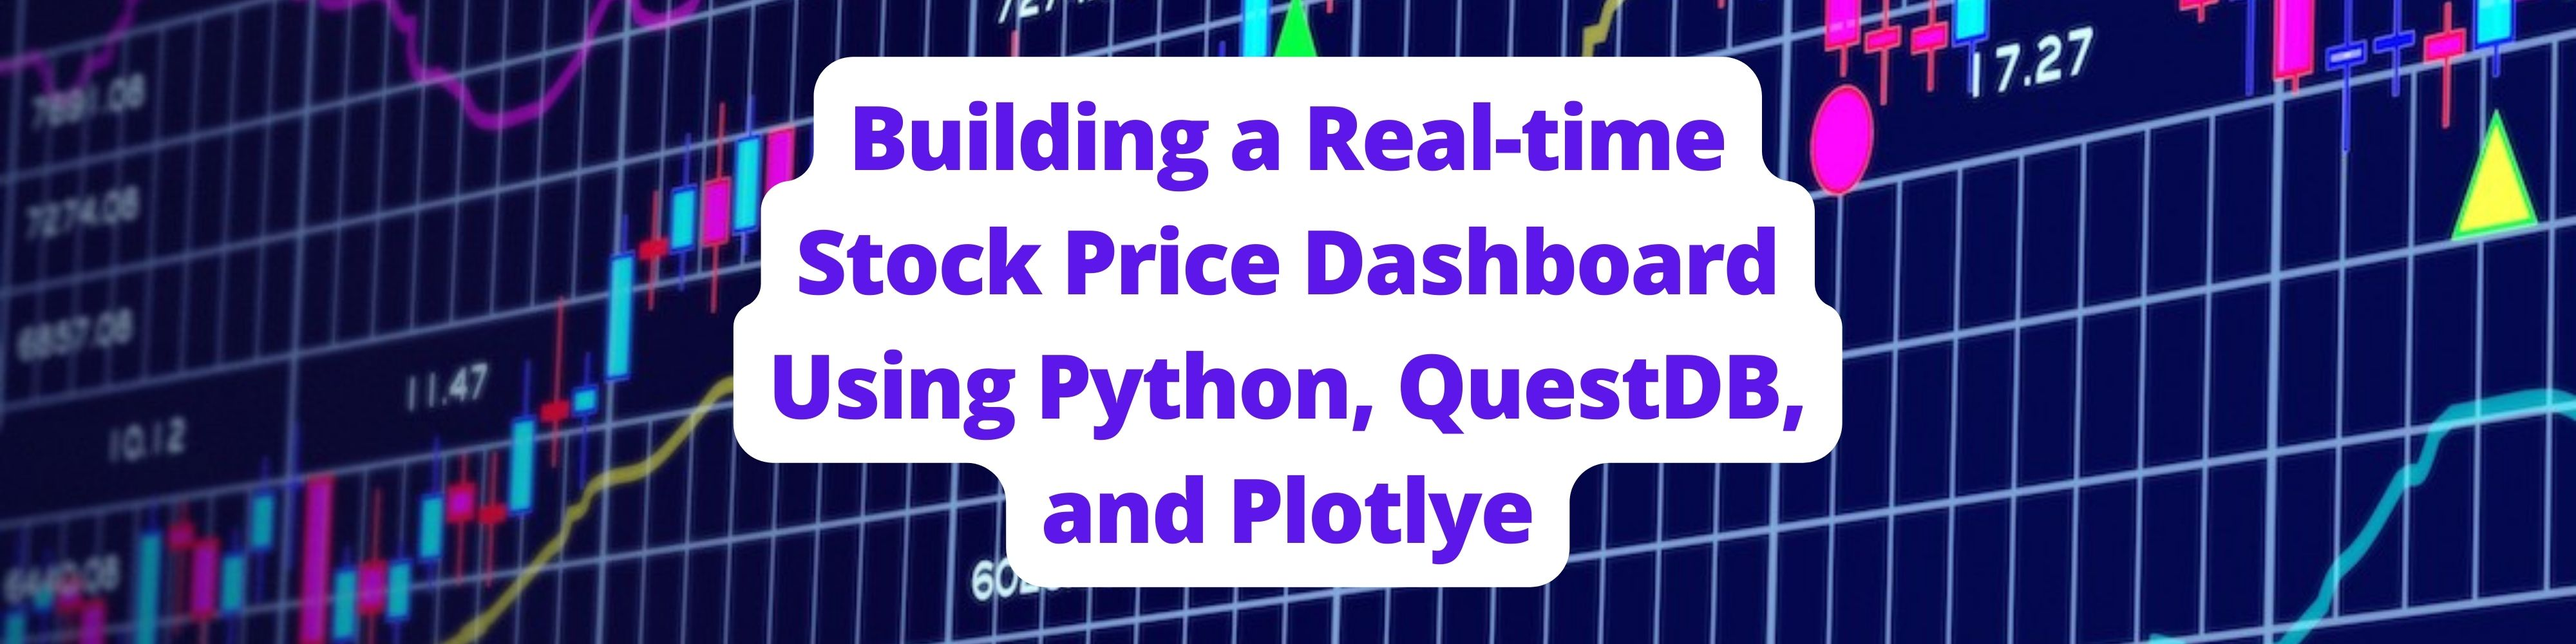
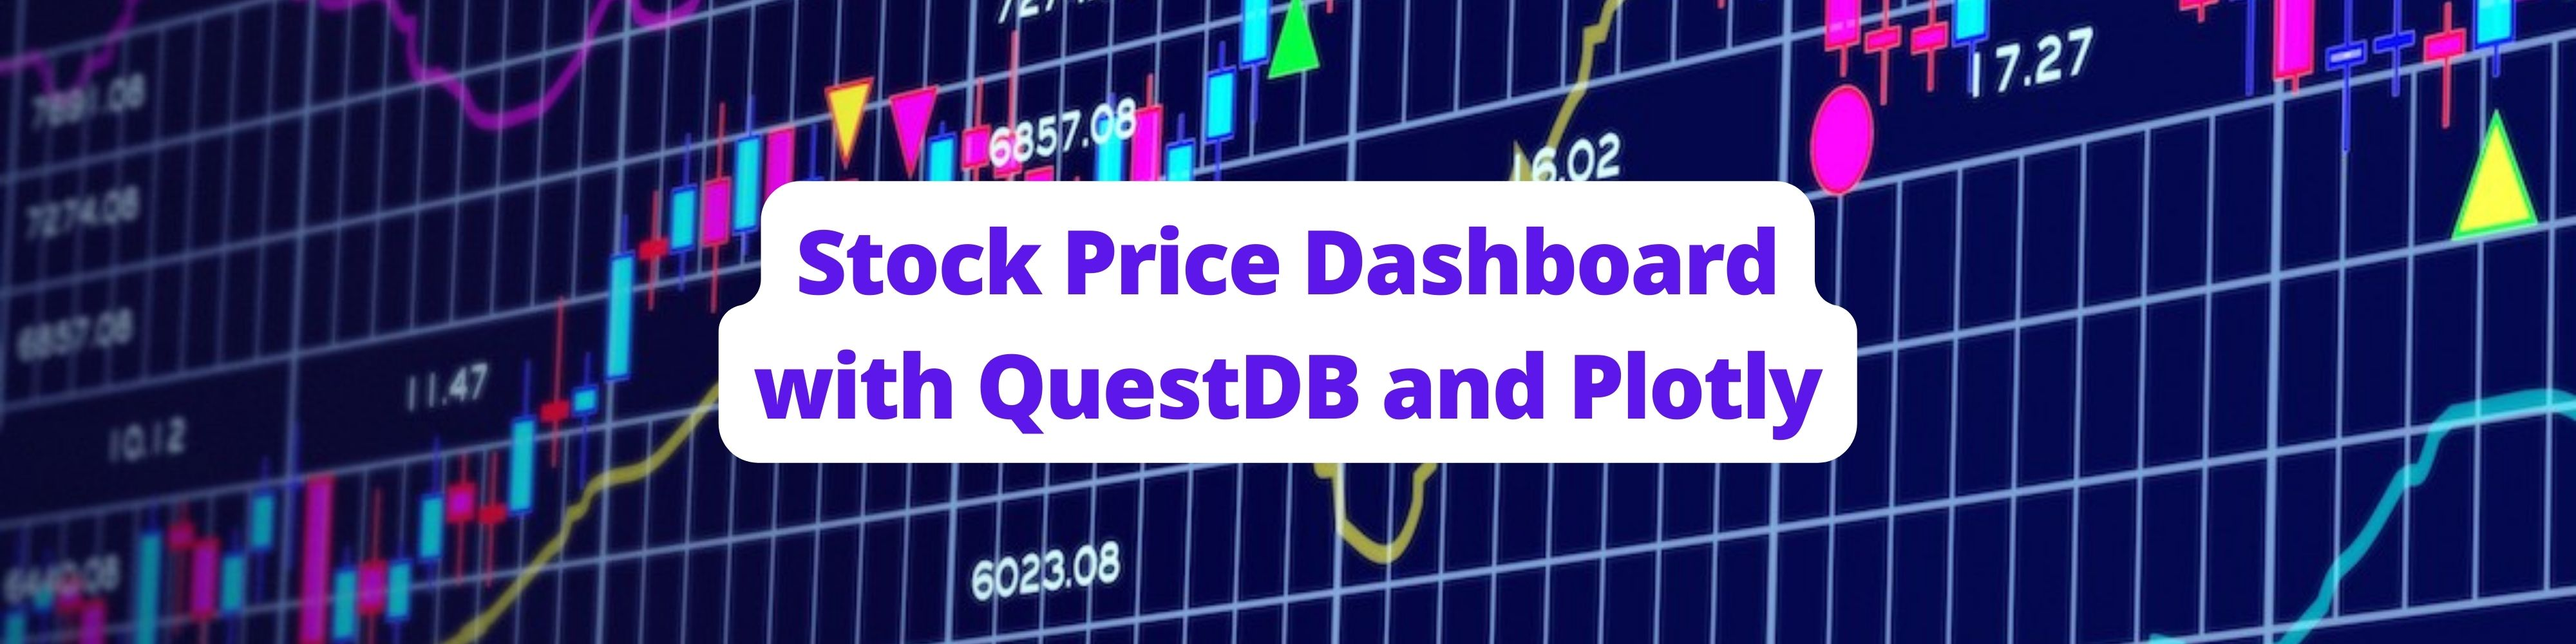
Updated title & header image

diff --git a/blog/_posts/2023-02-24-dashboard-with-python-questdb-plotly.md b/blog/_posts/2023-02-24-dashboard-with-python-questdb-plotly.md
@@ -1,5 +1,5 @@
 ---
-title: "Building a Real-time Stock Price Dashboard Using Python, QuestDB, and Plotlye"
+title: "Stock Price Dashboard with QuestDB and Plotly"
 categories:
   - Tutorials
 toc: true
